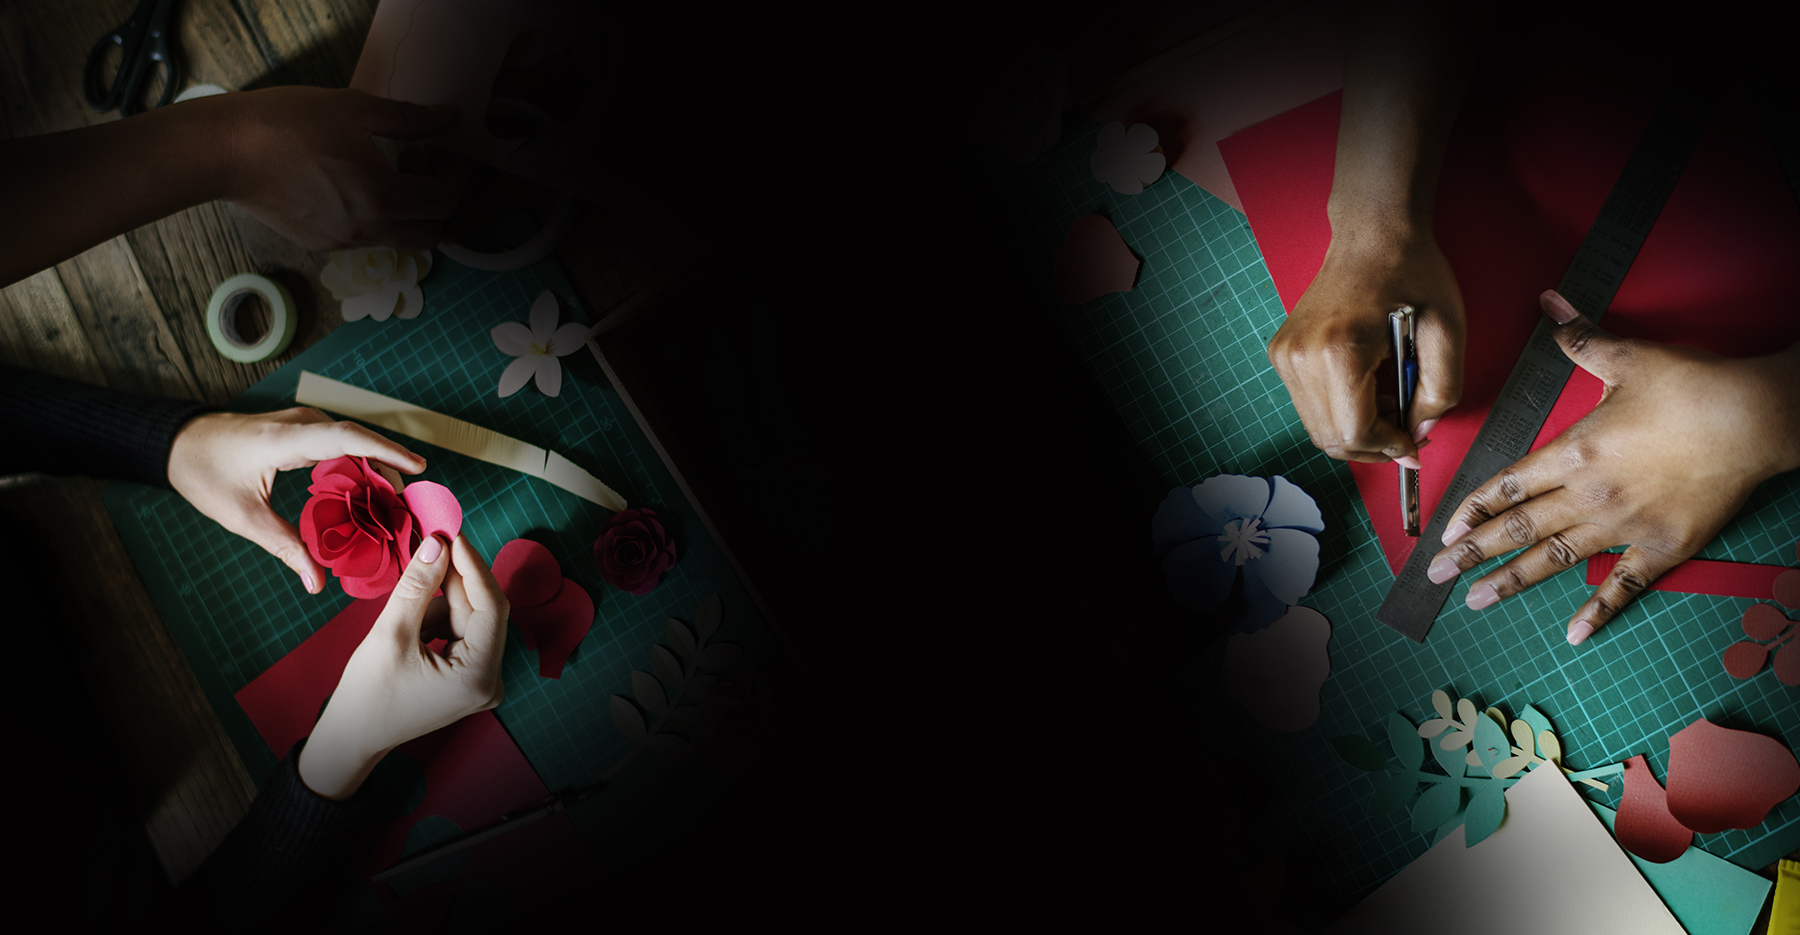
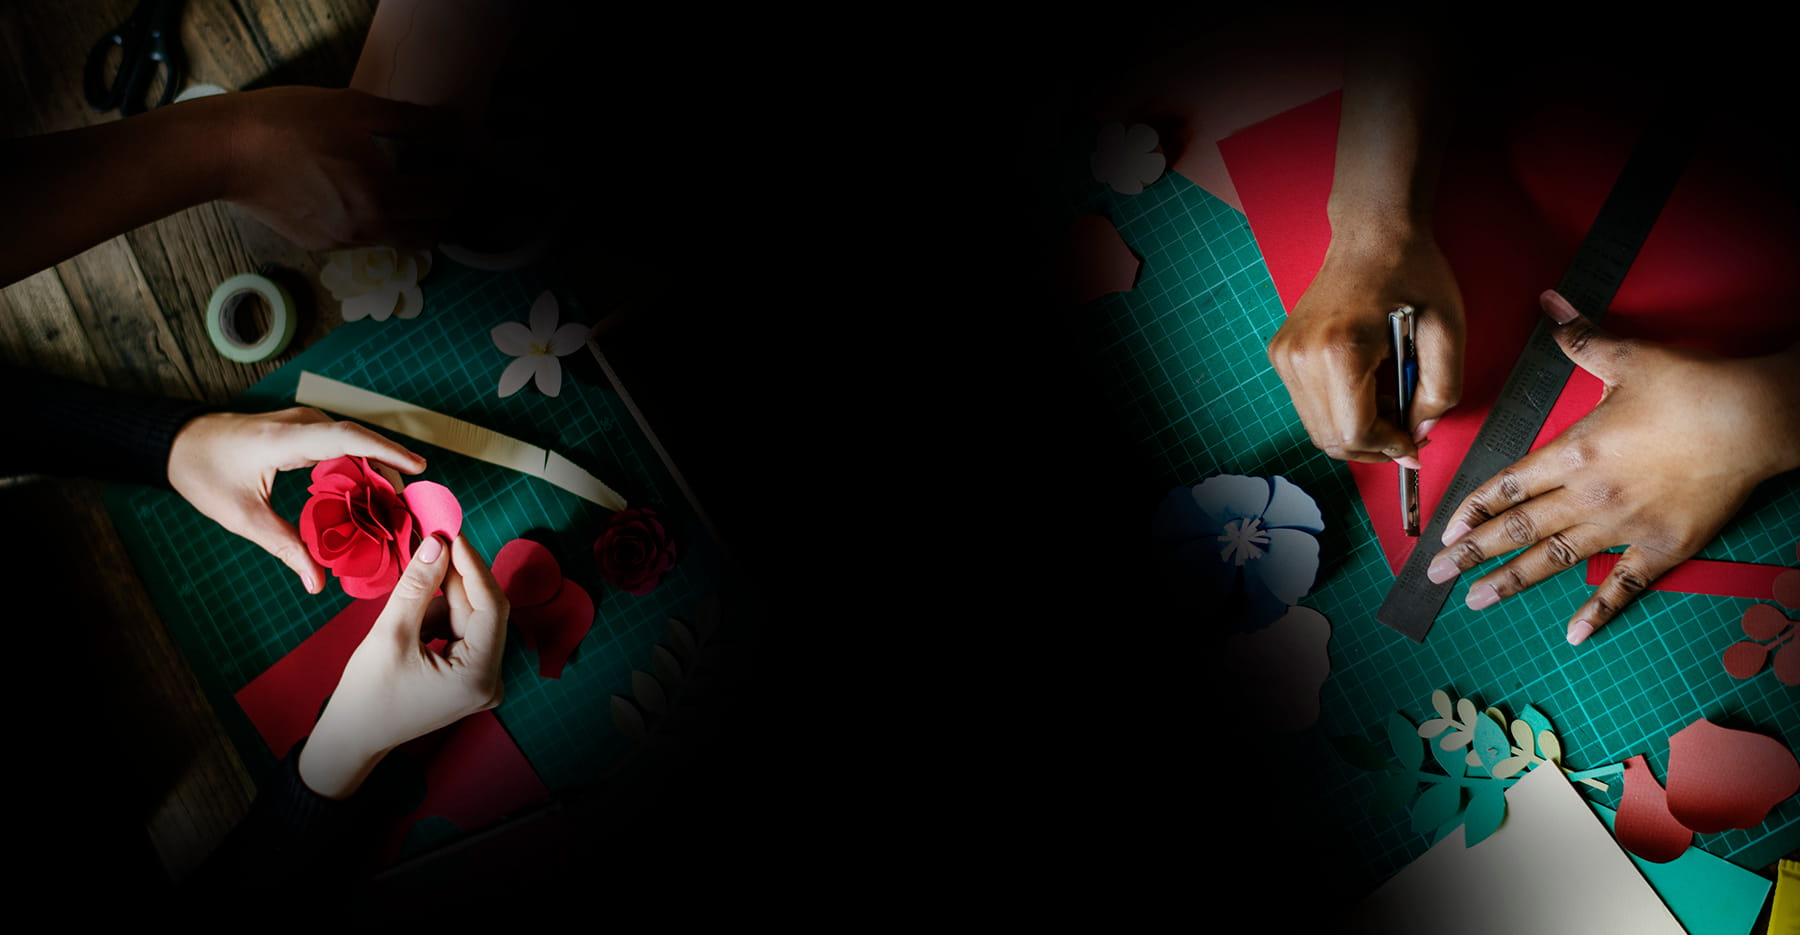
Otimização de imagens e troca do jquery

diff --git a/public/index.html b/public/index.html
@@ -109,7 +109,7 @@
         </div>
       </div>
     </div>
-    <div class="parallax"><img src="/images/background/2747945.png" alt="Unsplashed background img 2"></div>
+    <div class="parallax"><img src="/images/background/background.jpg" alt="Unsplashed background img 2"></div>
   </div>
 
   <!-- Sobre -->
@@ -166,7 +166,7 @@
           <p>Telefone: (71) 3019-7722</p>
           <p>Endereço: Rua Marquês de Caravelas, 84 - Barra, Salvador - BA, 40140-241 - Próximo ao HiperIdeal.</p>
           <p>Horário de funcionamento: Seg à Sex 9h às 18h e Sab: 9h às 16h</p>
-          <iframe src="https://www.google.com/maps/embed?pb=!1m18!1m12!1m3!1d3887.4724785119647!2d-38.531728985747385!3d-13.005556390833586!2m3!1f0!2f0!3f0!3m2!1i1024!2i768!4f13.1!3m3!1m2!1s0x7160382537f3589%3A0x3895d521d138d0e4!2sInCanto%20Loja%20Colaborativa!5e0!3m2!1spt-BR!2sbr!4v1568062532578!5m2!1spt-BR!2sbr" width="600" height="450" frameborder="0" style="border:0;" allowfullscreen=""></iframe>
+          <iframe src="https://www.google.com/maps/embed?pb=!1m18!1m12!1m3!1d3887.4724785119647!2d-38.531728985747385!3d-13.005556390833586!2m3!1f0!2f0!3f0!3m2!1i1024!2i768!4f13.1!3m3!1m2!1s0x7160382537f3589%3A0x3895d521d138d0e4!2sInCanto%20Loja%20Colaborativa!5e0!3m2!1spt-BR!2sbr!4v1568062532578!5m2!1spt-BR!2sbr" width="500" height="450" frameborder="0" style="border:0;" allowfullscreen=""></iframe>
         </div>
 
       </div>
@@ -183,8 +183,8 @@
   <button onclick="topFunction()" id="myBtn" title="Voltar ao topo"><img src="/images/icones/top.svg"></button>
 
   <!--  Scripts-->
-  <script src="https://code.jquery.com/jquery-2.1.1.min.js"></script>
-  <script src="js/materialize.js"></script>
+  <script src="https://code.jquery.com/jquery-3.4.1.min.js"></script>
+  <script src="js/materialize.min.js"></script>
   <script src="js/init.js"></script>
   <script src="js/back-to-top.js"></script>
   <script src="js/slider.js"></script>
